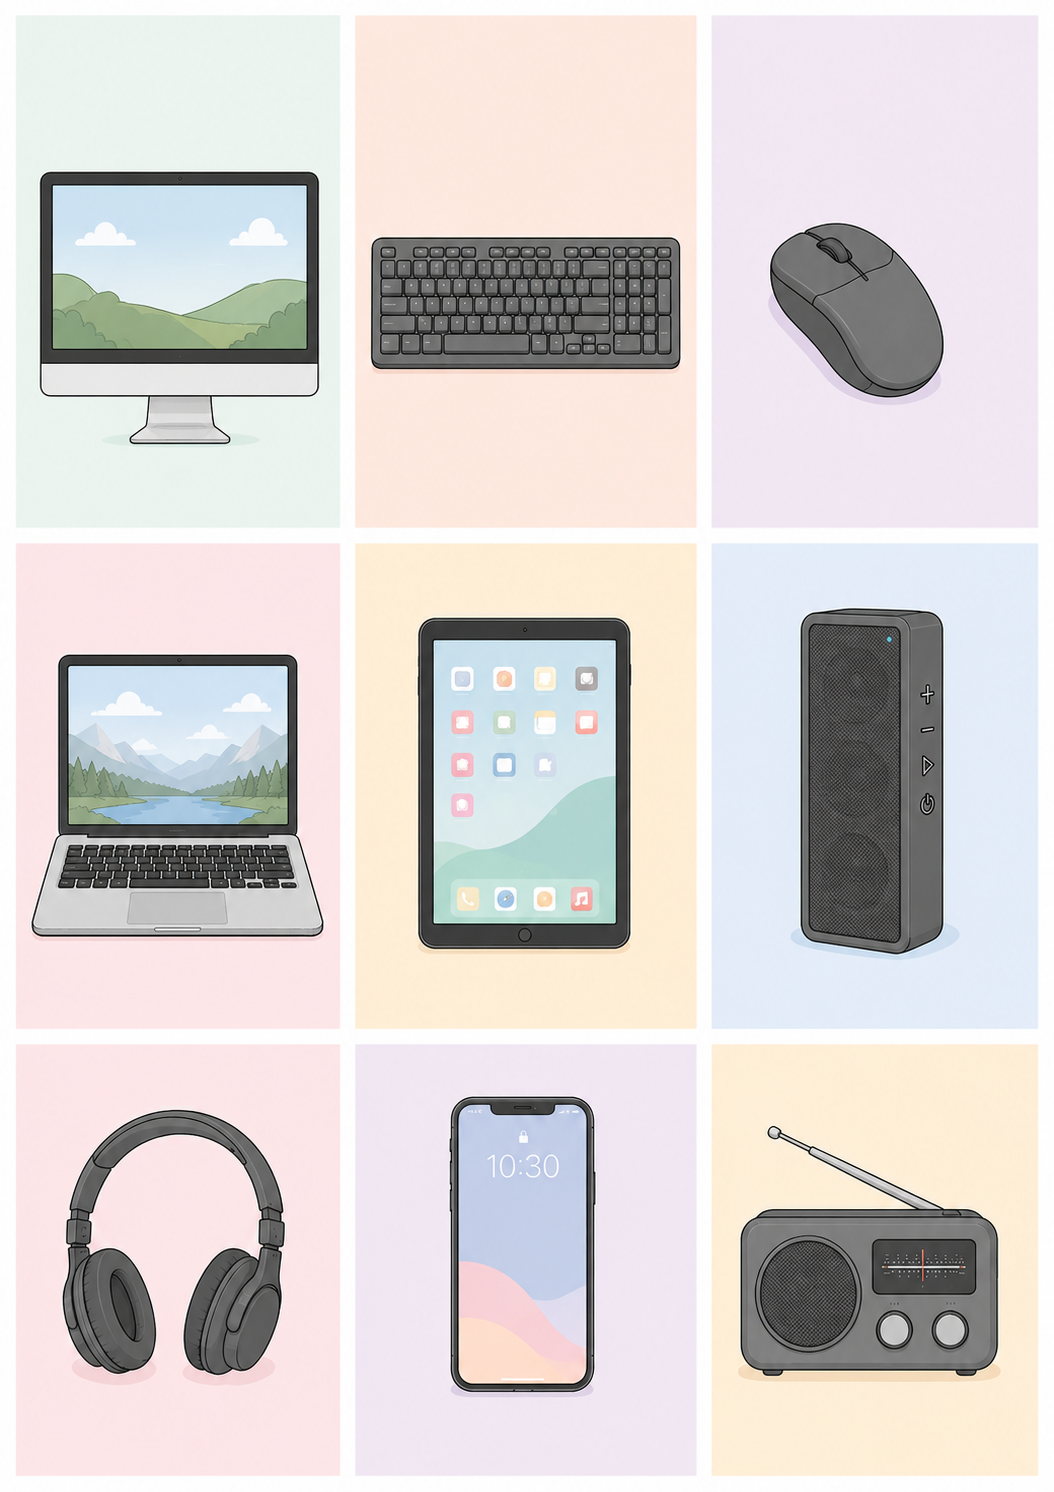
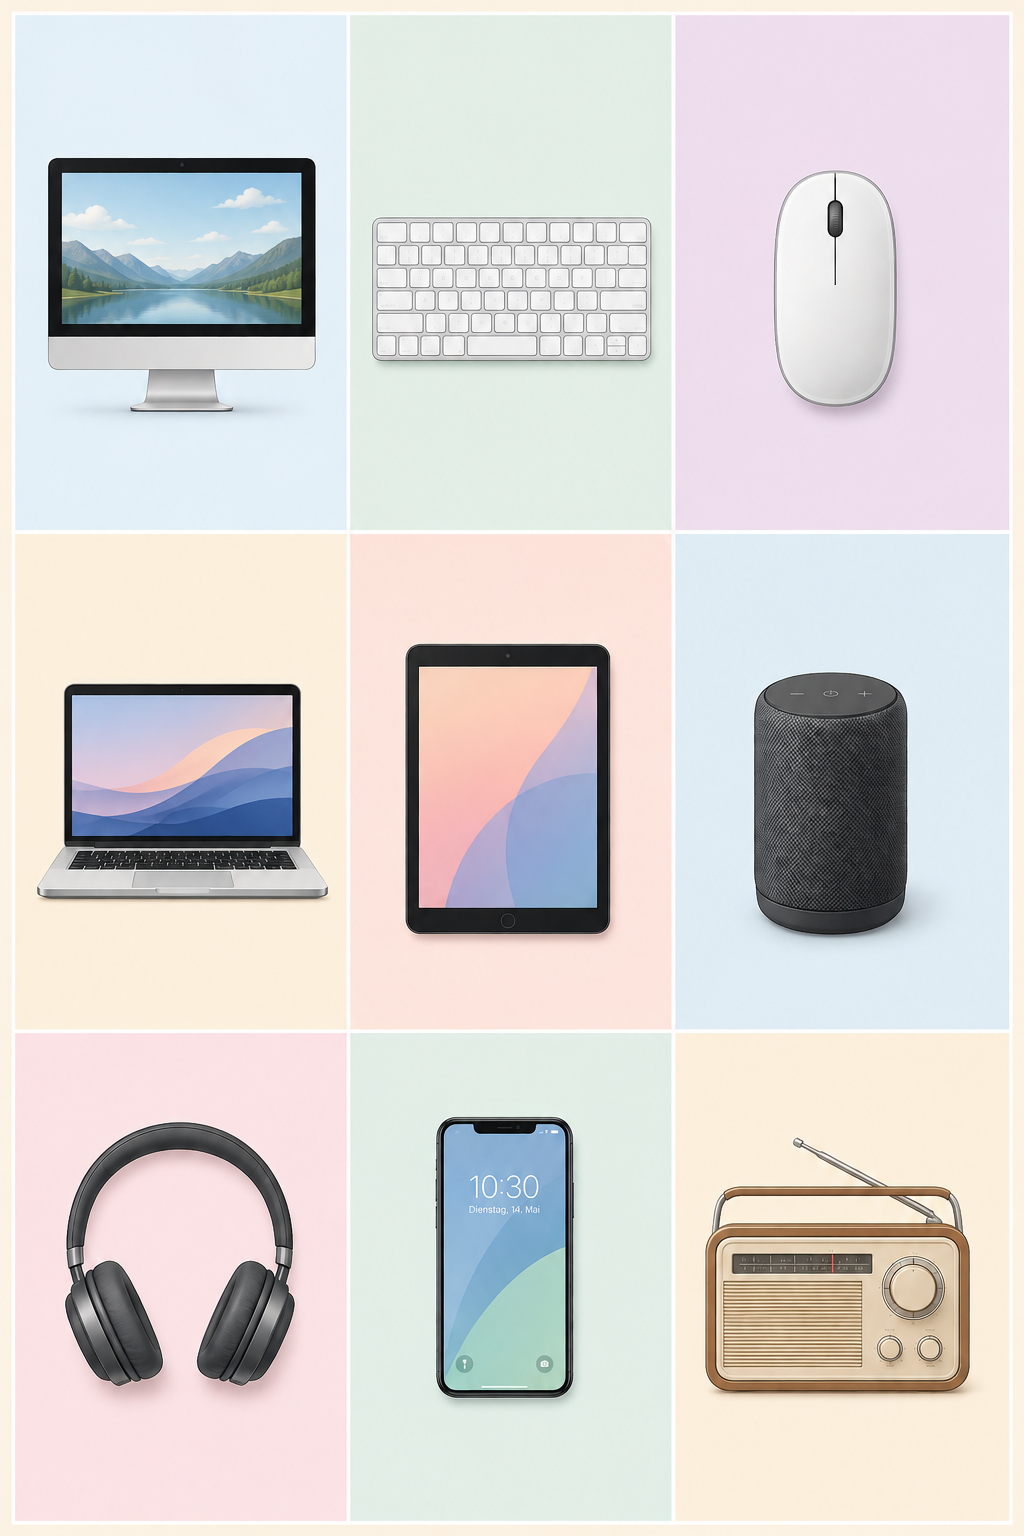
Aktualisiere weitere Kinderzimmer-Rasterbilder

diff --git a/bilder-daten.js b/bilder-daten.js
@@ -1913,15 +1913,15 @@ window.APP_FOLDERS = {
         title: "La habitación infantil – Bild 12",
         file: "ninos12.png",
         hotspots: [
-          { wort: { es: "el ordenador", de: "der Computer", en: "the computer", ru: "компьютер" }, clickX: 16.7, clickY: 21.2, labelX: 24, labelY: 9.5, areaW: 30, areaH: 28 },
-          { wort: { es: "el teclado", de: "die Tastatur", en: "the keyboard", ru: "клавиатура" }, clickX: 50, clickY: 21.2, labelX: 50, labelY: 9.5, areaW: 30, areaH: 28 },
-          { wort: { es: "el ratón", de: "die Maus", en: "the mouse", ru: "мышь" }, clickX: 83.3, clickY: 21.2, labelX: 76, labelY: 9.5, areaW: 30, areaH: 28 },
-          { wort: { es: "el ordenador portátil", de: "der Laptop", en: "the laptop", ru: "ноутбук" }, clickX: 16.7, clickY: 51.5, labelX: 24, labelY: 42, areaW: 30, areaH: 28 },
-          { wort: { es: "la tableta", de: "das Tablet", en: "the tablet", ru: "планшет" }, clickX: 50, clickY: 51.5, labelX: 50, labelY: 42, areaW: 30, areaH: 28 },
-          { wort: { es: "el altavoz", de: "der Lautsprecher", en: "the speaker", ru: "колонка" }, clickX: 83.3, clickY: 51.5, labelX: 76, labelY: 42, areaW: 30, areaH: 28 },
-          { wort: { es: "los auriculares", de: "die Kopfhörer", en: "the headphones", ru: "наушники" }, clickX: 16.7, clickY: 83.3, labelX: 24, labelY: 75, areaW: 30, areaH: 28 },
-          { wort: { es: "el móvil", de: "das Handy", en: "the mobile phone", ru: "мобильный телефон" }, clickX: 50, clickY: 83.3, labelX: 50, labelY: 75, areaW: 30, areaH: 28 },
-          { wort: { es: "la radio", de: "das Radio", en: "the radio", ru: "радио" }, clickX: 83.3, clickY: 83.3, labelX: 76, labelY: 75, areaW: 30, areaH: 28 }
+          { wort: { es: "el ordenador", de: "der Computer", en: "the computer", ru: "компьютер" }, clickX: 17.6, clickY: 17.7, labelX: 24, labelY: 9.5, areaW: 32.4, areaH: 33.5 },
+          { wort: { es: "el teclado", de: "die Tastatur", en: "the keyboard", ru: "клавиатура" }, clickX: 49.9, clickY: 17.7, labelX: 50, labelY: 9.5, areaW: 31.4, areaH: 33.5 },
+          { wort: { es: "el ratón", de: "die Maus", en: "the mouse", ru: "мышь" }, clickX: 82.2, clickY: 17.7, labelX: 76, labelY: 9.5, areaW: 32.6, areaH: 33.5 },
+          { wort: { es: "el ordenador portátil", de: "der Laptop", en: "the laptop", ru: "ноутбук" }, clickX: 17.6, clickY: 50.8, labelX: 24, labelY: 42, areaW: 32.4, areaH: 32.2 },
+          { wort: { es: "la tableta", de: "das Tablet", en: "the tablet", ru: "планшет" }, clickX: 49.9, clickY: 50.8, labelX: 50, labelY: 42, areaW: 31.4, areaH: 32.2 },
+          { wort: { es: "el altavoz", de: "der Lautsprecher", en: "the speaker", ru: "колонка" }, clickX: 82.2, clickY: 50.8, labelX: 76, labelY: 42, areaW: 32.6, areaH: 32.2 },
+          { wort: { es: "los auriculares", de: "die Kopfhörer", en: "the headphones", ru: "наушники" }, clickX: 17.6, clickY: 83.1, labelX: 24, labelY: 75, areaW: 32.4, areaH: 31.8 },
+          { wort: { es: "el móvil", de: "das Handy", en: "the mobile phone", ru: "мобильный телефон" }, clickX: 49.9, clickY: 83.1, labelX: 50, labelY: 75, areaW: 31.4, areaH: 31.8 },
+          { wort: { es: "la radio", de: "das Radio", en: "the radio", ru: "радио" }, clickX: 82.2, clickY: 83.1, labelX: 76, labelY: 75, areaW: 32.6, areaH: 31.8 }
         ]
       },
       {
@@ -1943,15 +1943,15 @@ window.APP_FOLDERS = {
         title: "La habitación infantil – Bild 14",
         file: "ninos14.png",
         hotspots: [
-          { wort: { es: "el libro", de: "das Buch", en: "the book", ru: "книга" }, clickX: 16.7, clickY: 18.8, labelX: 24, labelY: 9.5, areaW: 30, areaH: 32 },
-          { wort: { es: "el papel", de: "das Papier", en: "the paper", ru: "бумага" }, clickX: 50, clickY: 18.8, labelX: 50, labelY: 9.5, areaW: 30, areaH: 32 },
-          { wort: { es: "el bolígrafo", de: "der Kugelschreiber", en: "the pen", ru: "шариковая ручка" }, clickX: 83.3, clickY: 18.8, labelX: 76, labelY: 9.5, areaW: 30, areaH: 32 },
-          { wort: { es: "el cuaderno", de: "das Heft", en: "the notebook", ru: "тетрадь" }, clickX: 16.7, clickY: 52.8, labelX: 24, labelY: 42, areaW: 30, areaH: 31 },
-          { wort: { es: "los rotuladores", de: "die Filzstifte", en: "the felt-tip pens", ru: "фломастеры" }, clickX: 50, clickY: 52.8, labelX: 50, labelY: 42, areaW: 30, areaH: 31 },
-          { wort: { es: "el estuche", de: "das Mäppchen", en: "the pencil case", ru: "пенал" }, clickX: 83.3, clickY: 52.8, labelX: 76, labelY: 42, areaW: 30, areaH: 31 },
-          { wort: { es: "la regla", de: "das Lineal", en: "the ruler", ru: "линейка" }, clickX: 16.7, clickY: 83.3, labelX: 24, labelY: 75, areaW: 30, areaH: 28 },
-          { wort: { es: "las tijeras", de: "die Schere", en: "the scissors", ru: "ножницы" }, clickX: 50, clickY: 83.3, labelX: 50, labelY: 75, areaW: 30, areaH: 28 },
-          { wort: { es: "la calculadora", de: "der Taschenrechner", en: "the calculator", ru: "калькулятор" }, clickX: 83.3, clickY: 83.3, labelX: 76, labelY: 75, areaW: 30, areaH: 28 }
+          { wort: { es: "el libro", de: "das Buch", en: "the book", ru: "книга" }, clickX: 17.6, clickY: 17.7, labelX: 24, labelY: 9.5, areaW: 32.4, areaH: 33.5 },
+          { wort: { es: "el papel", de: "das Papier", en: "the paper", ru: "бумага" }, clickX: 49.8, clickY: 17.7, labelX: 50, labelY: 9.5, areaW: 31.3, areaH: 33.5 },
+          { wort: { es: "el bolígrafo", de: "der Kugelschreiber", en: "the pen", ru: "шариковая ручка" }, clickX: 82.2, clickY: 17.7, labelX: 76, labelY: 9.5, areaW: 32.6, areaH: 33.5 },
+          { wort: { es: "el cuaderno", de: "das Heft", en: "the notebook", ru: "тетрадь" }, clickX: 17.6, clickY: 50.8, labelX: 24, labelY: 42, areaW: 32.4, areaH: 32.2 },
+          { wort: { es: "los rotuladores", de: "die Filzstifte", en: "the felt-tip pens", ru: "фломастеры" }, clickX: 49.8, clickY: 50.8, labelX: 50, labelY: 42, areaW: 31.3, areaH: 32.2 },
+          { wort: { es: "el estuche", de: "das Mäppchen", en: "the pencil case", ru: "пенал" }, clickX: 82.2, clickY: 50.8, labelX: 76, labelY: 42, areaW: 32.6, areaH: 32.2 },
+          { wort: { es: "la regla", de: "das Lineal", en: "the ruler", ru: "линейка" }, clickX: 17.6, clickY: 83.1, labelX: 24, labelY: 75, areaW: 32.4, areaH: 31.8 },
+          { wort: { es: "las tijeras", de: "die Schere", en: "the scissors", ru: "ножницы" }, clickX: 49.8, clickY: 83.1, labelX: 50, labelY: 75, areaW: 31.3, areaH: 31.8 },
+          { wort: { es: "la calculadora", de: "der Taschenrechner", en: "the calculator", ru: "калькулятор" }, clickX: 82.2, clickY: 83.1, labelX: 76, labelY: 75, areaW: 32.6, areaH: 31.8 }
         ]
       },
       {
